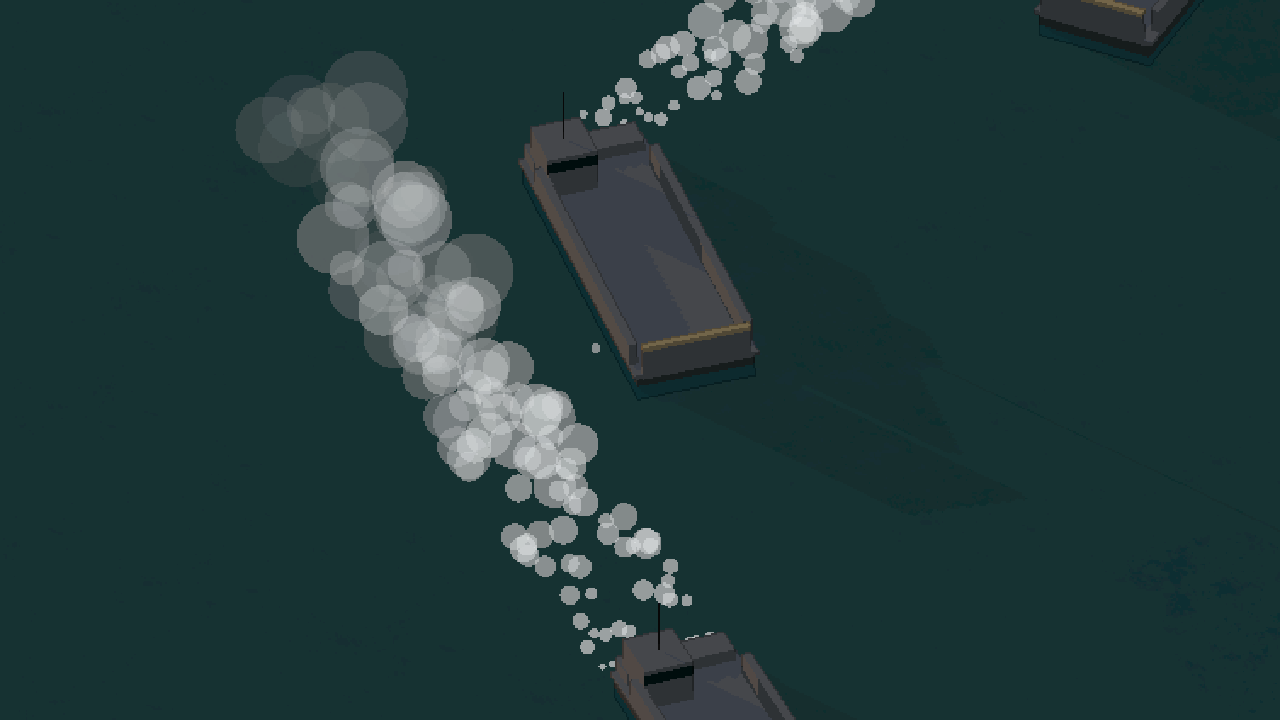
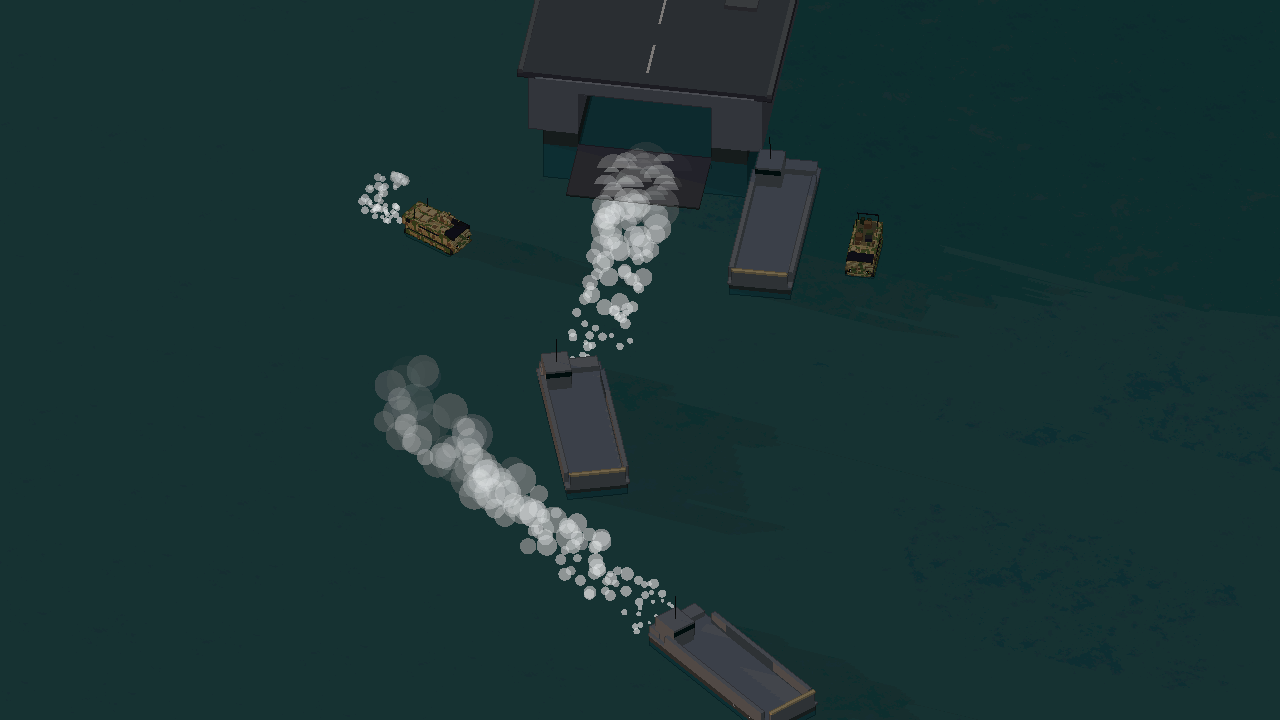
Ship week, day 6: README frames of the Little Bird pair, a capture ring and the craft wave, taken by a shooter that steps the match to the moment
tools/shoot.mjs freezes the animation loop, steps the simulation until a predicate finds the moment, places the camera and reads the canvas; Chrome's virtual-time screenshot hangs on a pre-stepped match and the DevTools screenshot is blank while the loop is frozen.

Changed region(s): [[0.1875, 0.0, 0.6875, 1.0], [0.8125, 0.0, 0.9375, 0.0611], [0.6562, 0.3056, 0.6875, 0.3972]]

diff --git a/README.md b/README.md
@@ -27,7 +27,11 @@ pixels chunkier while the camera rotates freely. No build step.
 </tr>
 <tr>
 <td><img src="docs/screenshots/peninsula-rubble.webp" alt="A cottage by the church reduced to a heap of rubble in a grassy village at dusk, tracers crossing, a squad firing beside it"><br><sub><b>Peninsula.</b> Stray fire has brought two cottages down by the church.</sub></td>
-<td><img src="docs/screenshots/peninsula-wave.webp" alt="Two landing craft under way at dusk, each trailing a line of foam, the stern of the assault ship behind them"><br><sub><b>Peninsula.</b> A wave runs for the beach, each craft on its own line.</sub></td>
+<td><img src="docs/screenshots/peninsula-wave.webp" alt="Two landing craft under way at dusk, each trailing a line of foam, a third still in the assault ship's well dock behind them and two amphibious vehicles alongside"><br><sub><b>Peninsula.</b> A wave runs for the beach, each craft on its own line, the next still in the well dock.</sub></td>
+</tr>
+<tr>
+<td><img src="docs/screenshots/little-bird.webp" alt="Two small gunship helicopters over a palm grove, the lead one's rocket just leaving its pod in a flash, their shadows on the sand below"><br><sub><b>Gunships.</b> A pair of Little Birds on a sortie over Palm Valley, the lead bird's rocket just away.</sub></td>
+<td><img src="docs/screenshots/capture-ring.webp" alt="A dashed red ring around the Village on Peninsula with an APC firing and a truck inside it, cottages around the ring and one burning at the corner"><br><sub><b>Capture rings.</b> The Village under capture: the ring goes dashed in the taker's colour until the place turns.</sub></td>
 </tr>
 <tr>
 <td colspan="2"><img src="docs/screenshots/hud.webp" alt="The match screen on Narva: squads by a block of flats beside the railway, the places bar and tickets along the top, reinforcements and settings at the right, the unit strip and the minimap along the bottom"><br><sub><b>The match HUD</b> (Narva, fog of war on): the places and tickets along the top, reinforcements at the right, the unit strip and the minimap below.</sub></td>
@@ -770,6 +774,13 @@ node tools/match-test.mjs 'http://localhost:8787/?cpu=both&seed=11&warp=240&mode
 node tools/match-test.mjs 'http://localhost:8787/?cpu=both&loadout=balanced&cpuloadout=balanced&seed=3&warp=1500&swap=1' 9334   # full mirrored match, sides swapped (map-balance check)
 node tools/touch-test.mjs 'http://localhost:8787/?mobile=1&cpu=none&loadout=balanced&seed=5' 9341 /tmp/touch-profile shot.png
 ```
+
+**README frames.** `tools/shoot.mjs <jobs.json>` photographs a moment in a match: with the
+animation loop frozen it pre-steps the match by `?warp=`, steps tick by tick until a predicate
+over `app` finds the moment (a rocket leaving the Little Bird's pod, a place under capture, a
+wave of craft clear of the well dock), places the camera, renders one frame and saves the canvas
+as PNG; the file's header has the job format and examples. The frames in docs/screenshots are
+those PNGs as lossless WebP (`cwebp -lossless -z 9`).
 
 **Balance runs.** `tools/balance.mjs` plays CPU-vs-CPU matchups to the end, several at
 once, stepping the simulation in the page as fast as it goes (a 25-minute match takes

diff --git a/docs/GAME_PLAN.md b/docs/GAME_PLAN.md
@@ -2638,7 +2638,16 @@ Engine changes needed in the existing core:
   all four maps: 208 matches, no page errors, none unfinished. Sides by base: Palm Valley 25-27,
   Desert 23-29, Narva 27-25, Peninsula 20-32 (the attacker, with mirrors counted both ways). Two
   URL parameters for screenshots: `follow=<label>` starts the camera on a unit, `hud=0` hides
-  everything but the view.
+  everything but the view. Three README frames: the Little Bird pair over a palm grove with a rocket
+  just away (docs/screenshots/little-bird.webp), the Village ring dashed red under capture
+  (capture-ring.webp) and the craft wave retaken with the vox ship's well dock behind it
+  (peninsula-wave.webp). Taking them cost most of the day: Chrome's `--virtual-time-budget`
+  screenshot hung on a pre-stepped match (3 hours, 49 s of CPU), and `Page.captureScreenshot`
+  returns a blank page while the animation loop is frozen, so `tools/shoot.mjs` (kept in the
+  repo now) freezes rAF, steps the simulation tick by tick until a predicate on `app` finds the
+  moment, places the camera, renders one frame and reads the canvas with `toDataURL`. The camera
+  clamps its target to the ground, so a unit at height h is centred by moving the target
+  h / tan(pitch) along the view direction.
 
 ## Open questions
 
